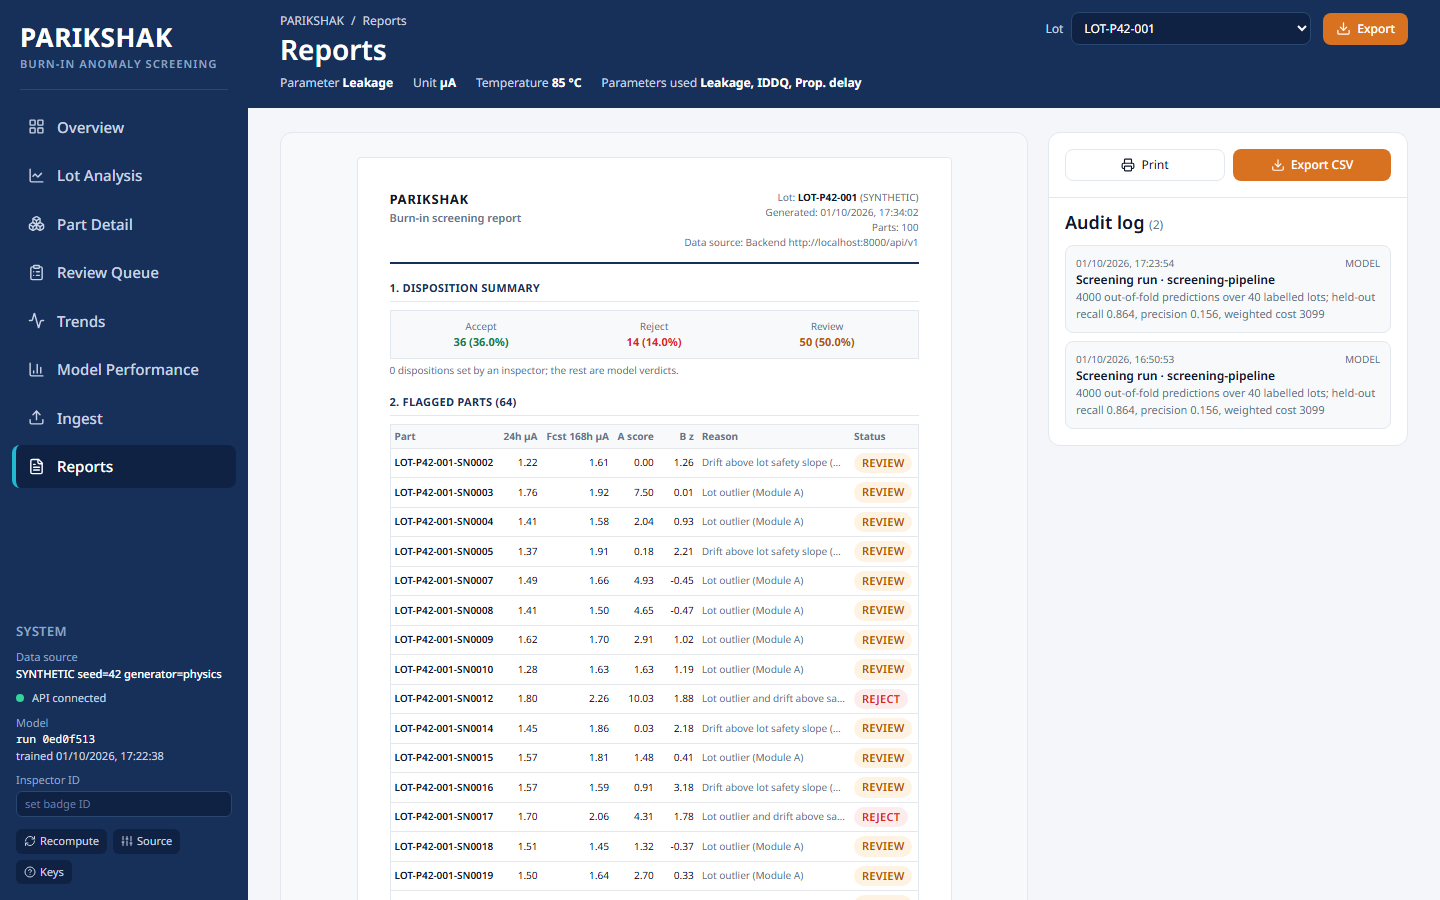
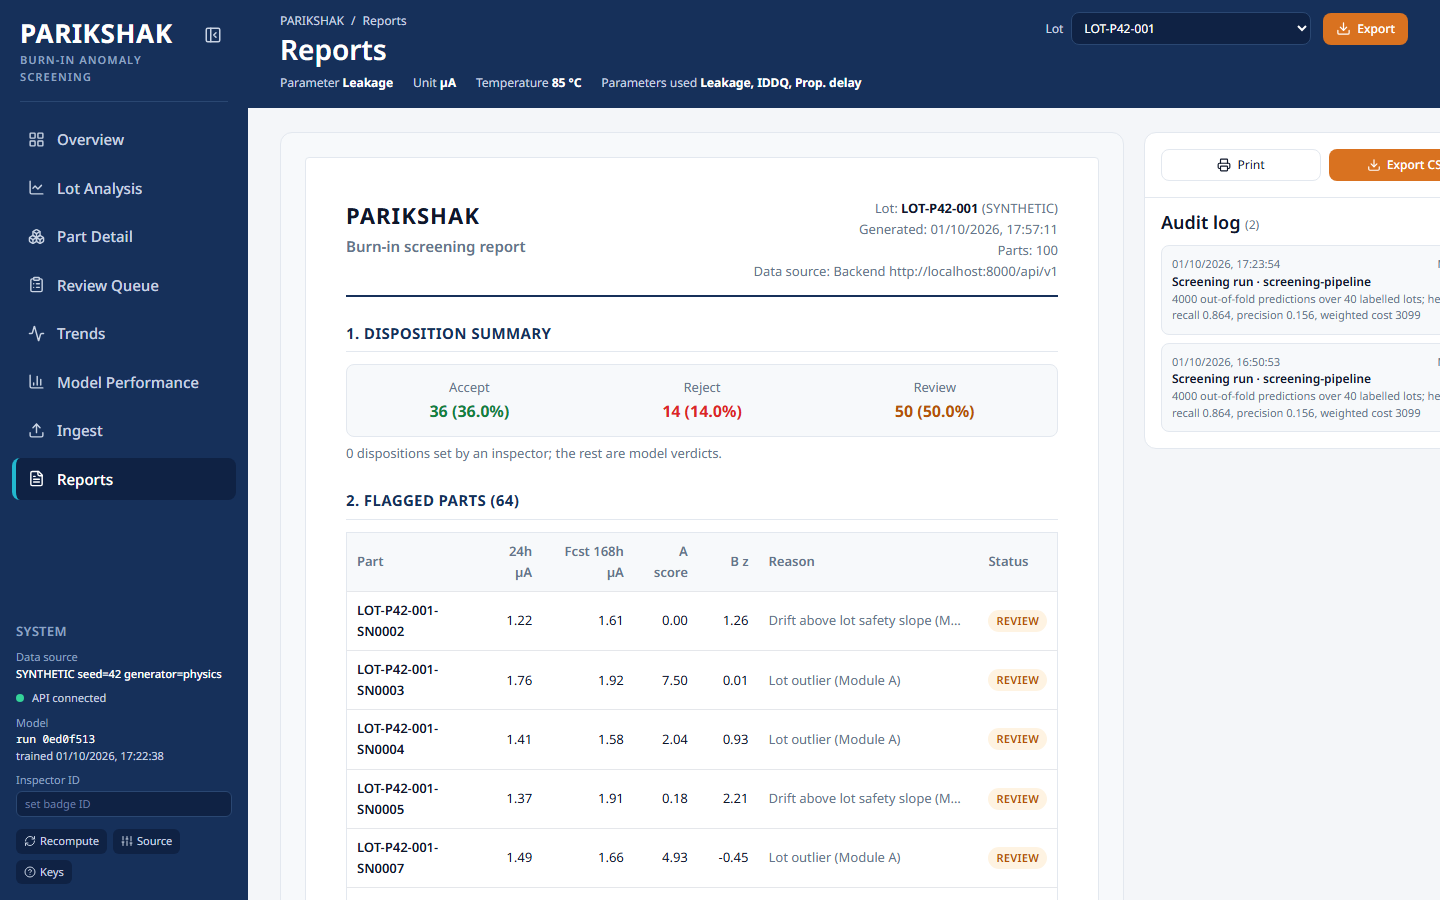
Collapsible sidebar; larger report preview, fonts and table on /reports
- sidebar collapses to a 68px icon rail (toggle at the top, remembered in localStorage); nav items keep labels as
  tooltips/aria-labels; when collapsed the data-source tag moves into the header so it stays on every screen
- /reports: A4 preview at 794px, body 14px, tables 13px with roomier cells, larger headings and sign-off

diff --git a/frontend/src/screens/AuditReportScreen.tsx b/frontend/src/screens/AuditReportScreen.tsx
@@ -52,13 +52,13 @@ export const AuditReportScreen: React.FC = () => {
   return (
     <div className="flex gap-5 max-w-[1500px] items-start" data-testid="reports">
       <div className="flex-1 rounded-card border border-hairline bg-panel p-6 flex justify-center">
-        <div className="w-[595px] min-h-[842px] bg-white border border-hairline rounded-sm p-8 text-main text-[11px] select-text space-y-4" aria-label="A4 report preview">
+        <div className="w-[794px] max-w-full min-h-[1123px] bg-white border border-hairline rounded-sm p-10 text-main text-[14px] leading-relaxed select-text space-y-6" aria-label="A4 report preview">
           <div className="border-b-2 border-navy pb-3 flex justify-between">
             <div>
-              <h1 className="font-bold text-base tracking-wider uppercase">PARIKSHAK</h1>
-              <h2 className="font-sans text-xs font-semibold text-muted">Burn-in screening report</h2>
+              <h1 className="font-bold text-[22px] tracking-wider uppercase">PARIKSHAK</h1>
+              <h2 className="text-[15px] font-semibold text-muted">Burn-in screening report</h2>
             </div>
-            <div className="text-right text-[10px] text-muted">
+            <div className="text-right text-[13px] text-muted">
               <div>Lot: <strong className="text-main">{activeLot?.lotNumber}</strong> ({activeLot?.source})</div>
               <div>Generated: {new Date().toLocaleString()}</div>
               <div>Parts: {parts.length}</div>
@@ -67,39 +67,39 @@ export const AuditReportScreen: React.FC = () => {
           </div>
 
           <Section title="1. Disposition summary">
-            <div className="grid grid-cols-3 gap-2 p-2 bg-panel border border-hairline text-center">
-              <div><div className="text-muted text-[10px]">Accept</div><strong className="text-accept">{counts.accept} ({((counts.accept / total) * 100).toFixed(1)}%)</strong></div>
-              <div><div className="text-muted text-[10px]">Reject</div><strong className="text-reject">{counts.reject} ({((counts.reject / total) * 100).toFixed(1)}%)</strong></div>
-              <div><div className="text-muted text-[10px]">Review</div><strong className="text-review">{counts.review} ({((counts.review / total) * 100).toFixed(1)}%)</strong></div>
+            <div className="grid grid-cols-3 gap-3 p-3 bg-panel border border-hairline rounded-lg text-center text-[16px]">
+              <div><div className="text-muted text-[13px]">Accept</div><strong className="text-accept">{counts.accept} ({((counts.accept / total) * 100).toFixed(1)}%)</strong></div>
+              <div><div className="text-muted text-[13px]">Reject</div><strong className="text-reject">{counts.reject} ({((counts.reject / total) * 100).toFixed(1)}%)</strong></div>
+              <div><div className="text-muted text-[13px]">Review</div><strong className="text-review">{counts.review} ({((counts.review / total) * 100).toFixed(1)}%)</strong></div>
             </div>
-            <div className="text-[10px] text-muted mt-1">{counts.byInspector} dispositions set by an inspector; the rest are model verdicts.</div>
+            <div className="text-[13px] text-muted mt-1.5">{counts.byInspector} dispositions set by an inspector; the rest are model verdicts.</div>
           </Section>
 
           <Section title={`2. Flagged parts (${flagged.length})`}>
-            <table className="w-full text-left border-collapse border border-hairline text-[10px]">
-              <thead><tr className="bg-panel text-muted"><th className="p-1">Part</th><th className="p-1 text-right">24h {PARAM_UNIT[param]}</th><th className="p-1 text-right">Fcst 168h {PARAM_UNIT[param]}</th><th className="p-1 text-right">A score</th><th className="p-1 text-right">B z</th><th className="p-1">Reason</th><th className="p-1">Status</th></tr></thead>
+            <table className="w-full text-left border-collapse border border-hairline text-[13px]">
+              <thead><tr className="bg-panel text-muted [&>th]:px-2.5 [&>th]:py-2 [&>th]:font-semibold [&>th]:whitespace-nowrap"><th className="p-1">Part</th><th className="p-1 text-right">24h {PARAM_UNIT[param]}</th><th className="p-1 text-right">Fcst 168h {PARAM_UNIT[param]}</th><th className="p-1 text-right">A score</th><th className="p-1 text-right">B z</th><th className="p-1">Reason</th><th className="p-1">Status</th></tr></thead>
               <tbody>
                 {flagged.slice(0, 40).map(p => {
                   const pr = predictions[p.partId];
                   return (
-                    <tr key={p.id} className="border-t border-hairline/40">
-                      <td className="p-1 font-semibold">{p.partId}</td>
+                    <tr key={p.id} className="border-t border-hairline/60 [&>td]:px-2.5 [&>td]:py-2">
+                      <td className="p-1 font-semibold whitespace-nowrap">{p.partId}</td>
                       <td className="p-1 text-right">{p.readings[24]?.toFixed(2) ?? '–'}</td>
                       <td className="p-1 text-right">{pr?.moduleB?.perParam[param]?.forecast168h?.toFixed(2) ?? '–'}</td>
                       <td className="p-1 text-right">{pr?.moduleA?.score?.toFixed(2) ?? '–'}</td>
                       <td className="p-1 text-right">{pr?.moduleB?.score?.toFixed(2) ?? '–'}</td>
-                      <td className="p-1 truncate max-w-[150px] text-muted">{p.reason}</td>
+                      <td className="p-1 truncate max-w-[220px] text-muted" title={p.reason}>{p.reason}</td>
                       <td className="p-1"><StatusPill status={p.status} /></td>
                     </tr>
                   );
                 })}
               </tbody>
             </table>
-            {flagged.length > 40 && <div className="text-[10px] text-muted mt-1">… {flagged.length - 40} more in the CSV export.</div>}
+            {flagged.length > 40 && <div className="text-[13px] text-muted mt-1.5">… {flagged.length - 40} more in the CSV export.</div>}
           </Section>
 
           <Section title="3. Screening configuration">
-            <div className="space-y-0.5 text-[10px]">
+            <div className="space-y-1 text-[13px]">
               <div>Burn-in test conditions: <LotConditions lot={activeLot} /></div>
               <div>Datasheet limits: {config ? Object.entries(config.datasheetLimits).map(([k, v]) => `${k} ${v}`).join(', ') : '–'}</div>
               <div>Decision cost: FN {Number.isNaN(config?.fnCost) ? '–' : config?.fnCost} / FP {Number.isNaN(config?.fpCost) ? '–' : config?.fpCost} · threshold strategy {config?.thresholdStrategy}</div>
@@ -109,14 +109,14 @@ export const AuditReportScreen: React.FC = () => {
           </Section>
 
           <Section title="4. Sign-off">
-            <div className="grid grid-cols-3 gap-4 p-2 bg-panel border border-hairline text-[10px]">
+            <div className="grid grid-cols-3 gap-4 p-3 bg-panel border border-hairline rounded-lg text-[13px]">
               <div><div className="text-muted mb-1">Inspector ID</div><strong>{inspector || '(not set)'}</strong></div>
               <div><div className="text-muted mb-1">Signature</div><div className="border-b border-main h-4" /></div>
               <div><div className="text-muted mb-1">Date</div><div className="border-b border-main h-4" /></div>
             </div>
           </Section>
 
-          <div className="pt-3 border-t border-hairline text-[9px] text-muted break-all">
+          <div className="pt-3 border-t border-hairline text-[12px] text-muted break-all">
             SHA-256 of the exported CSV content: <strong className="text-main">{docHash}</strong>
           </div>
         </div>
@@ -132,7 +132,7 @@ export const AuditReportScreen: React.FC = () => {
           {auditEvents.length === 0 && <div className="text-muted">No audit events for this lot yet.</div>}
           {auditEvents.map(e => (
             <div key={e.id} className="rounded-lg border border-hairline bg-panel p-2.5">
-              <div className="flex justify-between text-[10px] text-muted"><span>{new Date(e.timestamp).toLocaleString()}</span><span>{e.category}</span></div>
+              <div className="flex justify-between text-xs text-muted"><span>{new Date(e.timestamp).toLocaleString()}</span><span>{e.category}</span></div>
               <div className="font-semibold">{e.action} · {e.actor}</div>
               <div className="text-xs text-muted">{e.details}</div>
             </div>
@@ -145,7 +145,7 @@ export const AuditReportScreen: React.FC = () => {
 
 const Section: React.FC<{ title: string; children: React.ReactNode }> = ({ title, children }) => (
   <div>
-    <div className="font-bold text-xs uppercase tracking-wide text-navy border-b border-hairline pb-1 mb-2">{title}</div>
+    <div className="font-bold text-[15px] uppercase tracking-wide text-navy border-b border-hairline pb-1.5 mb-3">{title}</div>
     {children}
   </div>
 );

diff --git a/frontend/src/components/layout/AppShell.tsx b/frontend/src/components/layout/AppShell.tsx
@@ -1,7 +1,8 @@
 import React, { useEffect, useState } from 'react';
 import { NavLink, Outlet, useLocation } from 'react-router-dom';
 import {
-  Activity, BarChart3, Boxes, ClipboardList, Download, FileText, HelpCircle, LayoutGrid, LineChart as LineIcon, RefreshCw, Sliders, Upload,
+  Activity, BarChart3, Boxes, ClipboardList, Download, FileText, HelpCircle, LayoutGrid, LineChart as LineIcon, PanelLeftClose, PanelLeftOpen,
+  RefreshCw, Sliders, Upload,
 } from 'lucide-react';
 import { useStore } from '../../store/useStore';
 import { useKeyboardShortcuts } from '../../hooks/useKeyboardShortcuts';
@@ -112,8 +113,24 @@ const SystemBlock: React.FC = () => {
   );
 };
 
-const Header: React.FC = () => {
-  const { lots, activeLot, setActiveLot, parts, predictions } = useStore();
+const SIDEBAR_KEY = 'parikshak.sidebarCollapsed';
+
+const CompactSystem: React.FC = () => {
+  const { mode, setDevModalOpen, setShortcutModalOpen } = useStore();
+  const [health, setHealth] = useState<boolean | null>(null);
+  useEffect(() => { if (mode !== 'offline') getHealth().then(setHealth); }, [mode]);
+  const label = mode === 'offline' ? 'offline demo (in-browser)' : health ? 'API connected' : health === false ? 'API unreachable' : 'checking API…';
+  return (
+    <div className="mt-auto pb-4 flex flex-col items-center gap-3 text-[#C9D3E3]">
+      <span title={label} aria-label={label} className={`w-2.5 h-2.5 rounded-full ${mode === 'offline' ? 'bg-[#F5A524]' : health ? 'bg-[#34D399]' : health === false ? 'bg-[#F87171]' : 'bg-[#8FA3C2]'}`} />
+      <button onClick={() => setDevModalOpen(true)} title="Data source" aria-label="Data source" className="p-1.5 rounded-md hover:text-white hover:bg-navy-deep"><Sliders size={16} /></button>
+      <button onClick={() => setShortcutModalOpen(true)} title="Keyboard shortcuts" aria-label="Keyboard shortcuts" className="p-1.5 rounded-md hover:text-white hover:bg-navy-deep"><HelpCircle size={16} /></button>
+    </div>
+  );
+};
+
+const Header: React.FC<{ collapsed: boolean }> = ({ collapsed }) => {
+  const { lots, activeLot, setActiveLot, parts, predictions, mode, judgeSource } = useStore();
   const location = useLocation();
   const key = location.pathname.split('/')[1] ?? '';
   const t = TITLES[key] ?? TITLES[''];
@@ -149,6 +166,7 @@ const Header: React.FC = () => {
           <span>Temperature <strong className="text-white">{activeLot.temperatureC == null ? 'n/a' : `${activeLot.temperatureC} °C`}</strong>{assumed('temperature_c')}</span>
           <span>Parameters used <strong className="text-white" data-testid="parameters-used">{used.map(p => PARAM_LABEL[p as Param] ?? p).join(', ')}</strong></span>
           {activeLot.supplier && <span>Supplier <strong className="text-white">{activeLot.supplier}</strong></span>}
+          {collapsed && <span>Data source <strong className="text-white" data-testid="data-source-tag">{sourceTag(activeLot, mode) + (location.pathname.startsWith('/model') && judgeSource ? ` · judge mode: ${judgeSource}` : '')}</strong></span>}
         </div>
       )}
       <p className="sr-only">{t.sub}</p>
@@ -158,6 +176,13 @@ const Header: React.FC = () => {
 
 export const AppShell: React.FC = () => {
   const { fetchInitialData, isLoading, error, mode, setDevModalOpen } = useStore();
+  const [collapsed, setCollapsed] = useState<boolean>(() => {
+    try { return globalThis.localStorage?.getItem(SIDEBAR_KEY) === '1'; } catch { return false; }
+  });
+  const toggle = () => setCollapsed(c => {
+    try { globalThis.localStorage?.setItem(SIDEBAR_KEY, c ? '0' : '1'); } catch { /* no storage */ }
+    return !c;
+  });
   useKeyboardShortcuts();
   useEffect(() => { fetchInitialData(); }, [fetchInitialData]);
   const location = useLocation();
@@ -165,25 +190,36 @@ export const AppShell: React.FC = () => {
 
   return (
     <div className="h-screen w-screen flex bg-pagebg text-main overflow-hidden">
-      <aside className="w-[248px] shrink-0 bg-navy flex flex-col" aria-label="Main navigation">
-        <div className="px-5 pt-6 pb-4">
-          <div className="text-white text-[26px] font-bold tracking-wide leading-none">PARIKSHAK</div>
-          <div className="text-[11px] font-semibold tracking-widest text-[#8FA3C2] mt-1.5 uppercase">Burn-in anomaly screening</div>
+      <aside className={`${collapsed ? 'w-[68px]' : 'w-[248px]'} shrink-0 bg-navy flex flex-col transition-[width] duration-150`} aria-label="Main navigation" data-collapsed={collapsed}>
+        <div className={`${collapsed ? 'px-2' : 'px-5'} pt-5 pb-4`}>
+          <div className={`flex items-start ${collapsed ? 'justify-center' : 'justify-between'} gap-2`}>
+            {!collapsed && (
+              <div>
+                <div className="text-white text-[26px] font-bold tracking-wide leading-none">PARIKSHAK</div>
+                <div className="text-[11px] font-semibold tracking-widest text-[#8FA3C2] mt-1.5 uppercase">Burn-in anomaly screening</div>
+              </div>
+            )}
+            <button onClick={toggle} aria-label={collapsed ? 'Expand sidebar' : 'Collapse sidebar'} title={collapsed ? 'Expand sidebar' : 'Collapse sidebar'}
+              aria-expanded={!collapsed} data-testid="sidebar-toggle"
+              className="p-1.5 rounded-md text-[#C9D3E3] hover:text-white hover:bg-navy-deep focus:outline-none focus-visible:ring-2 focus-visible:ring-cyan">
+              {collapsed ? <PanelLeftOpen size={18} /> : <PanelLeftClose size={18} />}
+            </button>
+          </div>
           <div className="h-px bg-[#2A4772] mt-4" />
         </div>
-        <nav className="px-3 space-y-1.5">
+        <nav className={`${collapsed ? 'px-2' : 'px-3'} space-y-1.5`}>
           {NAV.map(({ to, label, icon: Icon, end }) => (
-            <NavLink key={to} to={to} end={end}
-              className={({ isActive }) => `flex items-center gap-3 rounded-lg pl-3 pr-2 py-2.5 text-[15px] font-medium border-l-4 focus:outline-none focus-visible:ring-2 focus-visible:ring-cyan ${
+            <NavLink key={to} to={to} end={end} title={collapsed ? label : undefined} aria-label={label}
+              className={({ isActive }) => `flex items-center gap-3 rounded-lg ${collapsed ? 'justify-center px-0' : 'pl-3 pr-2'} py-2.5 text-[15px] font-medium border-l-4 focus:outline-none focus-visible:ring-2 focus-visible:ring-cyan ${
                 isActive || (to === '/part' && location.pathname.startsWith('/part')) ? 'bg-navy-deep text-white border-cyan' : 'bg-navy-deep/60 text-[#C9D3E3] border-transparent hover:text-white'}`}>
-              <Icon size={17} /> {label}
+              <Icon size={17} className="shrink-0" /> {!collapsed && label}
             </NavLink>
           ))}
         </nav>
-        <SystemBlock />
+        {collapsed ? <CompactSystem /> : <SystemBlock />}
       </aside>
       <div className="flex-1 min-w-0 flex flex-col">
-        <Header />
+        <Header collapsed={collapsed} />
         {mode === 'offline' && (
           <div className="bg-review-bg text-review text-sm px-8 py-1.5 border-b border-review/20">
             Offline demo: synthetic data screened by simple client rules on 0h/24h readings (not the ML model).{' '}
